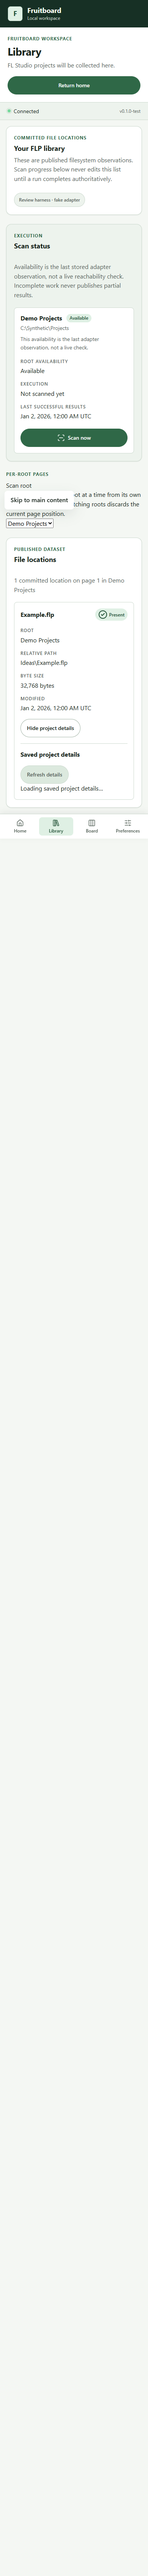
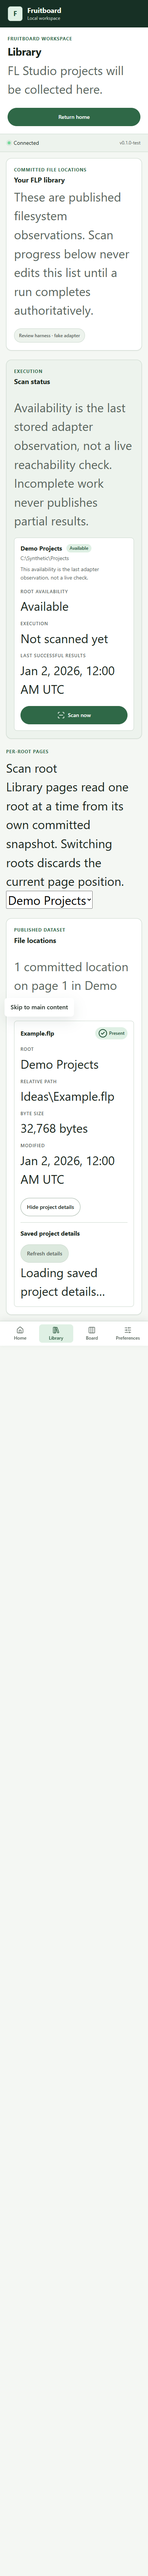
fix: use shared theme colors for project fact states

diff --git a/apps/client/src/styles.css b/apps/client/src/styles.css
@@ -937,17 +937,17 @@
     border: 1px solid currentColor;
   }
   .project-details__badge--extracted {
-    color: #166534;
-    background: #dcfce7;
+    color: var(--color-accent-strong);
+    background: var(--color-accent-soft);
   }
   .project-details__badge--inferred {
-    color: #854d0e;
-    background: #fef9c3;
+    color: var(--color-warning);
+    background: var(--color-surface);
   }
   .project-details__badge--unavailable,
   .project-details__badge--unsupported {
-    color: #475569;
-    background: #f1f5f9;
+    color: var(--color-text-muted);
+    background: var(--color-surface-subtle);
   }
 
   .library-scan-facts {
